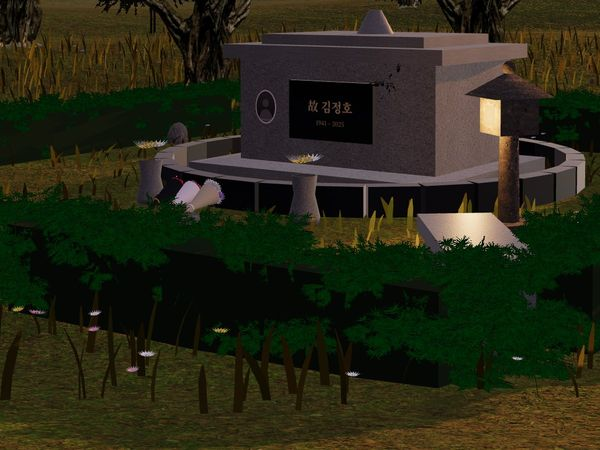
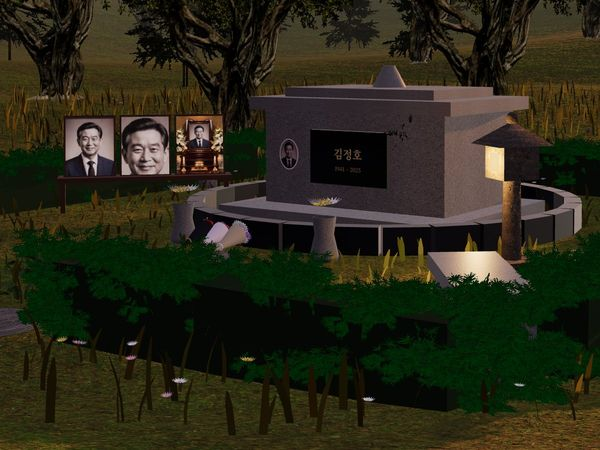
꾸밈 예시를 가상 인물로 새로 꾸며 교체: 분향소 6종·장지 6종, 기능 소개 화면도 교체
Claude-Session: https://claude.ai/code/session_01WvjGqiVXugAiAGwkNjewY5

diff --git a/index.html b/index.html
@@ -84,24 +84,27 @@
         <button type="button" role="tab" id="t-pet" aria-controls="p-pet" aria-selected="false" tabindex="-1">반려동물</button>
       </div>
       <div class="shots" role="tabpanel" id="p-hall" aria-labelledby="t-hall">
-        <figure><div class="img"><img src="/img/show/hall-hanok-s.jpg" srcset="/img/show/hall-hanok-s.jpg 600w, /img/show/hall-hanok.jpg 1200w" sizes="(max-width: 560px) 84vw, (max-width: 860px) 50vw, 370px" alt="한옥 사당 분향소. 창살문 사당에 흰 국화 제단, 촛불과 위패, 근조화환" loading="lazy" width="1200" height="900"></div><figcaption><b>한옥 사당 분향소</b><span>창살문 사당에 흰 국화 제단, 촛불과 위패, 근조화환</span></figcaption></figure>
-        <figure><div class="img"><img src="/img/show/hall-chapel-s.jpg" srcset="/img/show/hall-chapel-s.jpg 600w, /img/show/hall-chapel.jpg 1200w" sizes="(max-width: 560px) 84vw, (max-width: 860px) 50vw, 370px" alt="예배당 분향소. 스테인드글라스와 십자가, 흰 국화 제단" loading="lazy" width="1200" height="900"></div><figcaption><b>예배당 분향소</b><span>스테인드글라스와 십자가, 흰 국화 제단</span></figcaption></figure>
-        <figure><div class="img"><img src="/img/show/hall-garden-s.jpg" srcset="/img/show/hall-garden-s.jpg 600w, /img/show/hall-garden.jpg 1200w" sizes="(max-width: 560px) 84vw, (max-width: 860px) 50vw, 370px" alt="정원 추모실. 큰 창 너머로 꽃동산 장지가 보이는 추모실" loading="lazy" width="1200" height="900"></div><figcaption><b>정원 추모실</b><span>큰 창 너머로 꽃동산 장지가 보이는 추모실</span></figcaption></figure>
+        <figure><div class="img"><img src="/img/show/h-hanok-s.jpg" srcset="/img/show/h-hanok-s.jpg 600w, /img/show/h-hanok.jpg 1200w" sizes="(max-width: 560px) 84vw, (max-width: 860px) 50vw, 370px" alt="한옥 사당. 창살문 사당에 흰 국화 제단과 원목 영정 액자" loading="lazy" width="1200" height="900"></div><figcaption><b>한옥 사당</b><span>창살문 사당에 흰 국화 제단과 원목 영정 액자</span></figcaption></figure>
+        <figure><div class="img"><img src="/img/show/h-temple-s.jpg" srcset="/img/show/h-temple-s.jpg 600w, /img/show/h-temple.jpg 1200w" sizes="(max-width: 560px) 84vw, (max-width: 860px) 50vw, 370px" alt="사찰 봉안당. 연등과 연꽃, 금빛 액자, 노랑·흰 국화" loading="lazy" width="1200" height="900"></div><figcaption><b>사찰 봉안당</b><span>연등과 연꽃, 금빛 액자, 노랑·흰 국화</span></figcaption></figure>
+        <figure><div class="img"><img src="/img/show/h-columb-s.jpg" srcset="/img/show/h-columb-s.jpg 600w, /img/show/h-columb.jpg 1200w" sizes="(max-width: 560px) 84vw, (max-width: 860px) 50vw, 370px" alt="봉안당. 밝은 봉안함 벽 앞에 금색 액자" loading="lazy" width="1200" height="900"></div><figcaption><b>봉안당</b><span>밝은 봉안함 벽 앞에 금색 액자</span></figcaption></figure>
+        <figure><div class="img"><img src="/img/show/h-chapel-s.jpg" srcset="/img/show/h-chapel-s.jpg 600w, /img/show/h-chapel.jpg 1200w" sizes="(max-width: 560px) 84vw, (max-width: 860px) 50vw, 370px" alt="예배당. 스테인드글라스와 십자가, 흰 국화 제단" loading="lazy" width="1200" height="900"></div><figcaption><b>예배당</b><span>스테인드글라스와 십자가, 흰 국화 제단</span></figcaption></figure>
+        <figure><div class="img"><img src="/img/show/h-vip-s.jpg" srcset="/img/show/h-vip-s.jpg 600w, /img/show/h-vip.jpg 1200w" sizes="(max-width: 560px) 84vw, (max-width: 860px) 50vw, 370px" alt="VIP 추모홀. 금빛 VIP 액자와 아치, 은은한 조명" loading="lazy" width="1200" height="900"></div><figcaption><b>VIP 추모홀</b><span>금빛 VIP 액자와 아치, 은은한 조명</span></figcaption></figure>
+        <figure><div class="img"><img src="/img/show/h-hall-s.jpg" srcset="/img/show/h-hall-s.jpg 600w, /img/show/h-hall.jpg 1200w" sizes="(max-width: 560px) 84vw, (max-width: 860px) 50vw, 370px" alt="기본 분향소. 병풍 앞 노랑·흰 국화와 촛불" loading="lazy" width="1200" height="900"></div><figcaption><b>기본 분향소</b><span>병풍 앞 노랑·흰 국화와 촛불</span></figcaption></figure>
       </div>
       <div class="shots" role="tabpanel" id="p-grave" aria-labelledby="t-grave" hidden>
+        <figure><div class="img"><img src="/img/show/g-pine-s.jpg" srcset="/img/show/g-pine-s.jpg 600w, /img/show/g-pine.jpg 1200w" sizes="(max-width: 560px) 84vw, (max-width: 860px) 50vw, 370px" alt="소나무 숲 봉분. 상석·향로석·망주석·문인석, 사진 액자" loading="lazy" width="1200" height="900"></div><figcaption><b>소나무 숲 봉분</b><span>상석·향로석·망주석·문인석, 사진 액자</span></figcaption></figure>
+        <figure><div class="img"><img src="/img/show/g-flowers-s.jpg" srcset="/img/show/g-flowers-s.jpg 600w, /img/show/g-flowers.jpg 1200w" sizes="(max-width: 560px) 84vw, (max-width: 860px) 50vw, 370px" alt="꽃동산 추모비. 비석 곁에 가족사진 액자와 꽃밭, 돌 벤치" loading="lazy" width="1200" height="900"></div><figcaption><b>꽃동산 추모비</b><span>비석 곁에 가족사진 액자와 꽃밭, 돌 벤치</span></figcaption></figure>
+        <figure><div class="img"><img src="/img/show/g-lake-s.jpg" srcset="/img/show/g-lake-s.jpg 600w, /img/show/g-lake.jpg 1200w" sizes="(max-width: 560px) 84vw, (max-width: 860px) 50vw, 370px" alt="호숫가 봉안묘. 노을빛 호숫가, 둘레석과 생울타리, 장명등" loading="lazy" width="1200" height="900"></div><figcaption><b>호숫가 봉안묘</b><span>노을빛 호숫가, 둘레석과 생울타리, 장명등</span></figcaption></figure>
+        <figure><div class="img"><img src="/img/show/g-church-s.jpg" srcset="/img/show/g-church-s.jpg 600w, /img/show/g-church.jpg 1200w" sizes="(max-width: 560px) 84vw, (max-width: 860px) 50vw, 370px" alt="기독교 추모공원. 십자가 묘비와 벤치, 예배당이 보이는 언덕" loading="lazy" width="1200" height="900"></div><figcaption><b>기독교 추모공원</b><span>십자가 묘비와 벤치, 예배당이 보이는 언덕</span></figcaption></figure>
         <figure><div class="img"><img src="/img/show/g-royal-s.jpg" srcset="/img/show/g-royal-s.jpg 600w, /img/show/g-royal.jpg 1200w" sizes="(max-width: 560px) 84vw, (max-width: 860px) 50vw, 370px" alt="왕릉. 능 규모의 봉분에 석양·석호·문인석·동자석까지" loading="lazy" width="1200" height="900"></div><figcaption><b>왕릉</b><span>능 규모의 봉분에 석양·석호·문인석·동자석까지</span></figcaption></figure>
         <figure><div class="img"><img src="/img/show/g-temple-s.jpg" srcset="/img/show/g-temple-s.jpg 600w, /img/show/g-temple.jpg 1200w" sizes="(max-width: 560px) 84vw, (max-width: 860px) 50vw, 370px" alt="산사 승탑. 연등 줄과 향로석, 장명등을 갖춘 불교 승탑" loading="lazy" width="1200" height="900"></div><figcaption><b>산사 승탑</b><span>연등 줄과 향로석, 장명등을 갖춘 불교 승탑</span></figcaption></figure>
-        <figure><div class="img"><img src="/img/show/g-flowers-s.jpg" srcset="/img/show/g-flowers-s.jpg 600w, /img/show/g-flowers.jpg 1200w" sizes="(max-width: 560px) 84vw, (max-width: 860px) 50vw, 370px" alt="꽃동산 추모비. 비석 곁에 가족사진 액자와 꽃밭, 돌 벤치" loading="lazy" width="1200" height="900"></div><figcaption><b>꽃동산 추모비</b><span>비석 곁에 가족사진 액자와 꽃밭, 돌 벤치</span></figcaption></figure>
-        <figure><div class="img"><img src="/img/show/g-lake-s.jpg" srcset="/img/show/g-lake-s.jpg 600w, /img/show/g-lake.jpg 1200w" sizes="(max-width: 560px) 84vw, (max-width: 860px) 50vw, 370px" alt="호숫가 봉안묘. 노을빛 호숫가, 둘레석과 생울타리" loading="lazy" width="1200" height="900"></div><figcaption><b>호숫가 봉안묘</b><span>노을빛 호숫가, 둘레석과 생울타리</span></figcaption></figure>
-        <figure><div class="img"><img src="/img/show/g-island-s.jpg" srcset="/img/show/g-island-s.jpg 600w, /img/show/g-island.jpg 1200w" sizes="(max-width: 560px) 84vw, (max-width: 860px) 50vw, 370px" alt="작은 섬 추모비. 바다 건너 산이 보이는 섬, 해 질 녘" loading="lazy" width="1200" height="900"></div><figcaption><b>작은 섬 추모비</b><span>바다 건너 산이 보이는 섬, 해 질 녘</span></figcaption></figure>
-        <figure><div class="img"><img src="/img/show/g-mountain-s.jpg" srcset="/img/show/g-mountain-s.jpg 600w, /img/show/g-mountain.jpg 1200w" sizes="(max-width: 560px) 84vw, (max-width: 860px) 50vw, 370px" alt="산 중턱 명당 봉분. 상석·향로석·망주석·문인석을 갖춘 전통 묘역" loading="lazy" width="1200" height="900"></div><figcaption><b>산 중턱 명당 봉분</b><span>상석·향로석·망주석·문인석을 갖춘 전통 묘역</span></figcaption></figure>
       </div>
       <div class="shots" role="tabpanel" id="p-pet" aria-labelledby="t-pet" hidden>
         <figure><div class="img"><img src="/img/show/pet-hall-s.jpg" srcset="/img/show/pet-hall-s.jpg 600w, /img/show/pet-hall.jpg 1200w" sizes="(max-width: 560px) 84vw, (max-width: 860px) 50vw, 370px" alt="무지개 분향소. 무지개 아래 노란 국화 제단과 아이 사진" loading="lazy" width="1200" height="900"></div><figcaption><b>무지개 분향소</b><span>무지개 아래 노란 국화 제단과 아이 사진</span></figcaption></figure>
         <figure><div class="img"><img src="/img/show/pet-grave-s.jpg" srcset="/img/show/pet-grave-s.jpg 600w, /img/show/pet-grave.jpg 1200w" sizes="(max-width: 560px) 84vw, (max-width: 860px) 50vw, 370px" alt="무지개 언덕. 아이 비석과 사진 액자, 밥그릇과 공" loading="lazy" width="1200" height="900"></div><figcaption><b>무지개 언덕</b><span>아이 비석과 사진 액자, 밥그릇과 공</span></figcaption></figure>
         <figure><div class="img"><img src="/img/show/pet-grave2-s.jpg" srcset="/img/show/pet-grave2-s.jpg 600w, /img/show/pet-grave2.jpg 1200w" sizes="(max-width: 560px) 84vw, (max-width: 860px) 50vw, 370px" alt="무지개 언덕 · 해 질 녘. 나비의 사진 액자와 비석" loading="lazy" width="1200" height="900"></div><figcaption><b>무지개 언덕 · 해 질 녘</b><span>나비의 사진 액자와 비석</span></figcaption></figure>
       </div>
-      <p class="fine">분향소 예시는 공감 추모원이 모신 독립운동가 공개 추모관이고, 장지와 반려동물은 꾸밈 예시입니다.</p>
+      <p class="fine">예시 속 인물과 반려동물은 꾸밈을 보여 드리기 위한 가상의 예시입니다.</p>
     </div>
   </section>
 
@@ -122,8 +125,8 @@
           </ul>
         </div>
         <div class="pair">
-          <div class="phone sm"><img src="img/ex-hall.jpg" alt="한옥 사당 테마로 꾸민 홍범도 님 공개 분향소. 흰 국화 제단에 영정과 위패, 촛불과 향로가 놓여 있다." loading="lazy" width="390" height="760"></div>
-          <div class="phone sm"><img src="img/ex-mound.jpg" alt="소나무 숲 봉분 묘소로 꾸민 김구 님 공개 장지. 상석과 석등, 영정 액자가 놓여 있다." loading="lazy" width="390" height="760"></div>
+          <div class="phone sm"><img src="img/ex-hall.jpg?v=2" alt="한옥 사당 테마로 꾸민 분향소 예시. 흰 국화 제단에 영정과 위패, 촛불과 향로가 놓여 있다." loading="lazy" width="390" height="760"></div>
+          <div class="phone sm"><img src="img/ex-mound.jpg?v=2" alt="꽃동산 추모비로 꾸민 장지 예시. 비석 곁에 가족사진 액자와 꽃밭, 돌 벤치가 있다." loading="lazy" width="390" height="760"></div>
         </div>
       </article>
 
@@ -138,8 +141,8 @@
           </ul>
         </div>
         <div class="pair">
-          <div class="phone sm"><img src="img/ex-family.jpg" alt="비석 옆에 사진 액자 세 개를 세우고 꽃밭으로 꾸민 유일한 님 공개 장지." loading="lazy" width="390" height="760"></div>
-          <div class="phone sm"><img src="img/ex-tree.jpg" alt="둥근 돌담 안에 소나무를 심은 수목장 장지. 사진 액자가 나무 곁에 놓여 있다." loading="lazy" width="390" height="760"></div>
+          <div class="phone sm"><img src="img/ex-family.jpg?v=2" alt="노을빛 호숫가 봉안묘 장지 예시. 둘레석과 생울타리, 장명등, 사진 액자가 있다." loading="lazy" width="390" height="760"></div>
+          <div class="phone sm"><img src="img/ex-tree.jpg?v=2" alt="소나무 숲 봉분 장지 예시. 망주석과 문인석, 상석이 놓여 있다." loading="lazy" width="390" height="760"></div>
         </div>
       </article>
 
